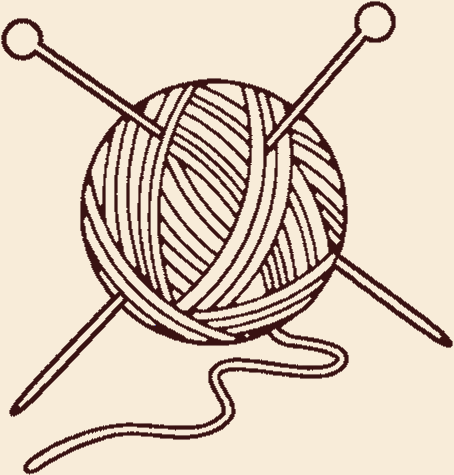
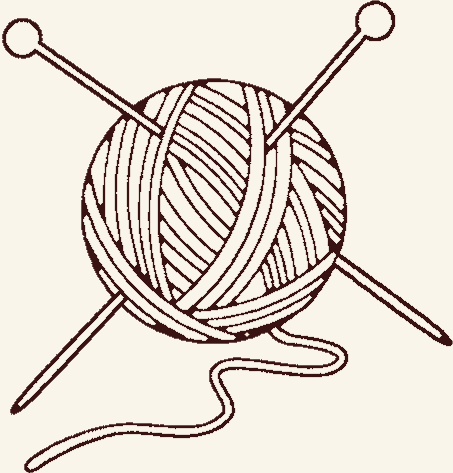
Title, TT test

Changed region(s): [[0.0309, 0.0, 1.0, 1.0], [0.0, 0.0592, 0.0309, 0.1184], [0.0, 0.8584, 0.0309, 0.8879]]

diff --git a/templates/index.html b/templates/index.html
@@ -30,10 +30,11 @@
                 <div class="mobile-input-container">
                     <input type="file" id="fileInput" accept=".jpg,.jpeg">
                 </div>
-                <div class="help-text" data-translate="fileHelp">Brug et .jpg eller .jpeg billede. Eller vælg et af disse motiver.</div>
+                <div class="help-text" data-translate="fileHelp">Brug et .jpg eller .jpeg billede.</div>
             </div>
             
             <div class="preset-images">
+                <label for="Eksempler" data-translate="Examples">Eksempler:</label>
                 <div class="preset-grid">
                     <img src="/static/preset1.jpg" class="preset-image" alt="Preset 1" onclick="selectPresetImage(this)">
                     <img src="/static/preset2.jpg" class="preset-image" alt="Preset 2" onclick="selectPresetImage(this)">
@@ -46,7 +47,14 @@
             </div>
             <div class="parameters-container">
                 <div class="form-group">
-                    <label for="size" data-translate="heightLabel">Ønsket højde (cm):</label>
+                    <label for="size" data-translate="heightLabel">
+                        <span class="tooltip-container">
+                            Ønsket højde test (cm):
+                            <div class="tooltip">
+                                <p>Fortæl hvilken højde motivet skal have på dit strikketøj</p>
+                            </div>
+                        </span>
+                    </label>
                     <input type="number" id="size" name="size" step="0.1" value="15">
                     <div class="help-text" data-translate="heightHelp">Fortæl hvilken højde motivet skal have på dit strikketøj</div>
                 </div>
@@ -90,7 +98,7 @@
             <div class="form-group">
                 <div class="center-button-container">
                     <div class="ButtonToGenerate">
-                        <button type="submit" data-translate="generateButton">Generer gratis mønster og opskrift</button>
+                        <button type="submit" data-translate="generateButton">Generer mønster</button>
                     </div>
                 </div>
             </div>

diff --git a/static/styles.css b/static/styles.css
@@ -18,9 +18,9 @@
 
 body {
     font-family: 'Quicksand', sans-serif;
-    background-color: #f8ecd9;
+    background-color: #FAF5EB;
     color: #391212;
-    font-size: 1rem;
+    font-size: 1.3rem;
     line-height: 1.0;
     padding: 12px;
 }
@@ -59,7 +59,7 @@ h2 {
 
 /* Form and Input Styles */
 .upload-container {
-    background-color: #8FA4D1;
+    background-color: #BDC9E5;
     padding: 20px;
     border-radius: 8px;
     box-shadow: 0 4px 10px rgba(0, 0, 0, 0.1);
@@ -102,8 +102,8 @@ select {
 }
 
 .help-text {
-    font-size: 0.875rem;
-    color: #391212;
+    font-size: 1rem;
+    color: #000000;
     margin-top: 5px;
 }
 
@@ -129,7 +129,7 @@ button {
 }
 
 button:hover {
-    background-color: #4a1818;
+    background-color: #641e1e;
 }
 
 .preset-grid {
@@ -262,6 +262,47 @@ button:hover {
     margin: 15px 0;
     font-family: 'Quicksand', sans-serif;
 }
+
+.tooltip-container {
+    position: relative;
+    display: inline-block;
+    cursor: pointer;
+    font-weight: bold;
+    text-decoration: underline;
+    z-index: 1;  /* Sørg for, at tooltip-containeren er ovenpå andre elementer */
+}
+
+.tooltip {
+    visibility: hidden;
+    width: 220px;
+    background-color: rgba(37, 9, 9, 0.8);
+    color: #fff;
+    text-align: center;
+    padding: 10px;
+    border-radius: 5px;
+    position: absolute;
+    z-index: 1000;  /* Sørg for, at tooltippet er øverst */
+    bottom: 120%;  /* Justeret for at sikre, at tooltippet er synligt over teksten */
+    left: 50%;
+    transform: translateX(-50%);
+    opacity: 0;
+    transition: opacity 0.3s ease-in-out, visibility 0.3s ease-in-out;
+    box-shadow: 0px 0px 10px rgba(0, 0, 0, 0.3);
+}
+
+.tooltip img {
+    width: 100%;
+    max-height: 150px; /* Maksimal højde på billedet, hvis du vil have et billede */
+    object-fit: cover;
+    border-radius: 5px;
+    margin-top: 5px;
+}
+
+.tooltip-container:hover .tooltip {
+    visibility: visible;
+    opacity: 1;
+}
+
 
 /* Mobile Responsive Design */
 @media (max-width: 770px) {
